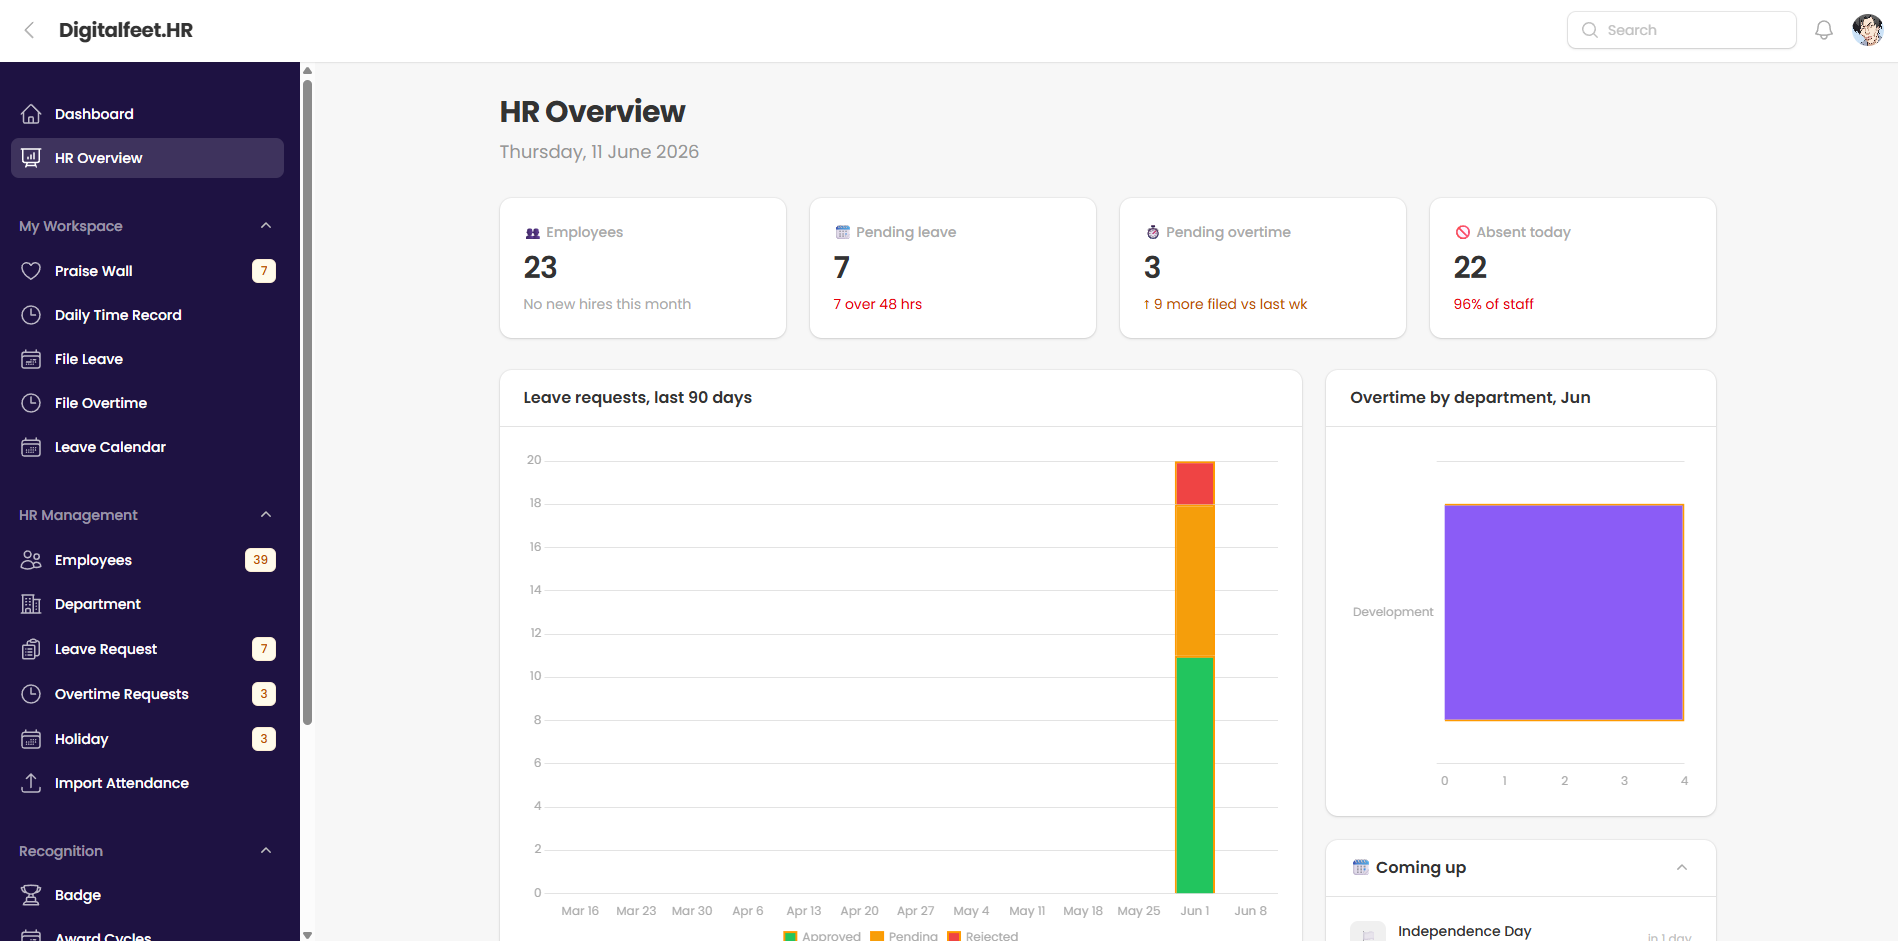
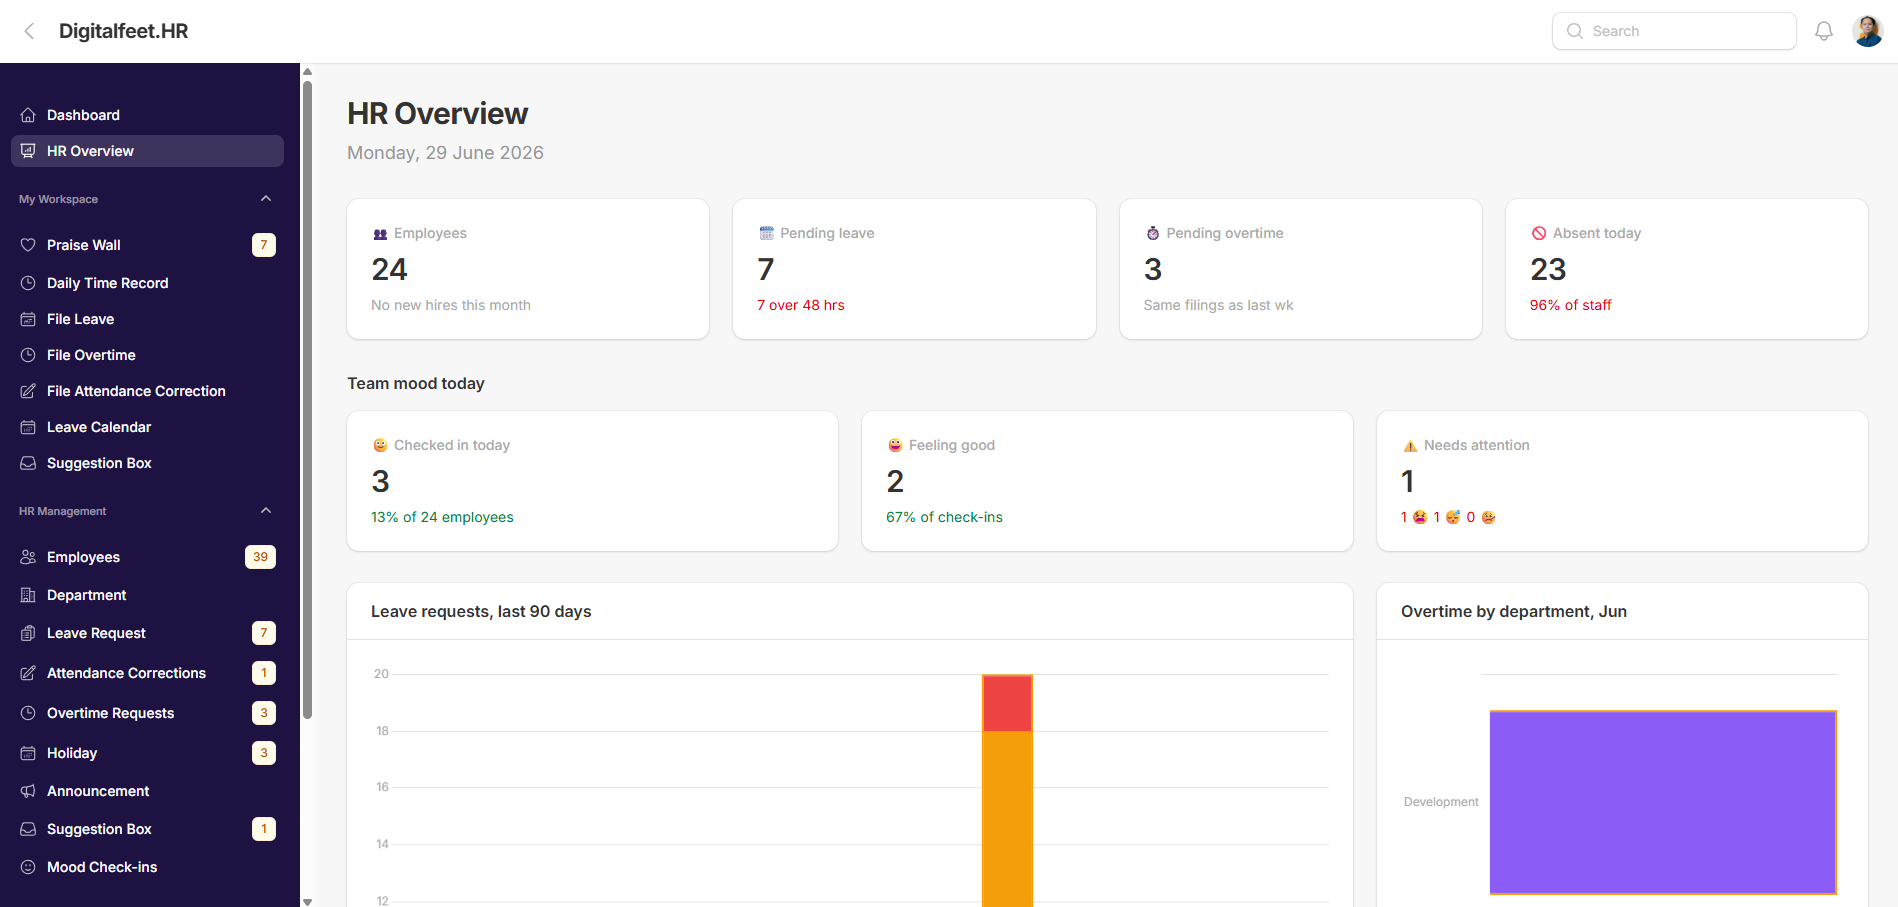
feat: update welcome page features and descriptions, add IT Asset Management and Wellbeing Check-ins

diff --git a/resources/js/pages/welcome.tsx b/resources/js/pages/welcome.tsx
@@ -17,7 +17,7 @@ const features: Feature[] = [
     {
         title: 'Attendance & DTR',
         description:
-            'Web clock in/out plus a clean daily time record with late, undertime, and overtime built in.',
+            'Web and biometric clock in/out, plus a clean daily time record with late, undertime, and overtime built in.',
         accent: 'bg-[#099FDD]/10 text-[#099FDD]',
         icon: (
             <path
@@ -30,7 +30,7 @@ const features: Feature[] = [
     {
         title: 'Leave & Overtime',
         description:
-            'File requests, track remaining credits, and route approvals to the right people.',
+            'File requests, track remaining credits, fix missed punches, and route approvals to the right people.',
         accent: 'bg-[#E94E1B]/10 text-[#E94E1B]',
         icon: (
             <path
@@ -41,9 +41,22 @@ const features: Feature[] = [
         ),
     },
     {
+        title: 'IT Asset Management',
+        description:
+            'Track every device, assign or lend units to staff, log returns — and each person sees the equipment that’s theirs.',
+        accent: 'bg-[#099FDD]/10 text-[#099FDD]',
+        icon: (
+            <path
+                strokeLinecap="round"
+                strokeLinejoin="round"
+                d="M9 17.25v1.007a3 3 0 0 1-.879 2.122L7.5 21h9l-.621-.621A3 3 0 0 1 15 18.257V17.25m6-12V15a2.25 2.25 0 0 1-2.25 2.25H5.25A2.25 2.25 0 0 1 3 15V5.25m18 0A2.25 2.25 0 0 0 18.75 3H5.25A2.25 2.25 0 0 0 3 5.25m18 0V12a2.25 2.25 0 0 1-2.25 2.25H5.25A2.25 2.25 0 0 1 3 12V5.25"
+            />
+        ),
+    },
+    {
         title: 'Team Calendar',
         description:
-            "See who's away across every department and keep holidays in view.",
+            "See who's away across every department, plus a live feed of today's team activity.",
         accent: 'bg-[#238B7F]/10 text-[#238B7F]',
         icon: (
             <path
@@ -54,7 +67,7 @@ const features: Feature[] = [
         ),
     },
     {
-        title: 'Praise Wall',
+        title: 'Praise & Recognition',
         description:
             'Recognize teammates with badges, react and comment, and crown winners every cycle.',
         accent: 'bg-[#D60B52]/10 text-[#D60B52]',
@@ -67,22 +80,48 @@ const features: Feature[] = [
         ),
     },
     {
-        title: 'Biometric Import',
+        title: 'Wellbeing Check-ins',
         description:
-            'Bring fingerprint punches in from your device, trim duplicates, and commit clean records.',
+            'A daily mood check-in that quietly flags who might need support — visible only to HR.',
+        accent: 'bg-[#238B7F]/10 text-[#238B7F]',
+        icon: (
+            <path
+                strokeLinecap="round"
+                strokeLinejoin="round"
+                d="M21 8.25c0-2.485-2.099-4.5-4.688-4.5-1.935 0-3.597 1.126-4.312 2.733-.715-1.607-2.377-2.733-4.313-2.733C5.1 3.75 3 5.765 3 8.25c0 7.22 9 12 9 12s9-4.78 9-12Z"
+            />
+        ),
+    },
+    {
+        title: 'Anonymous Suggestions',
+        description:
+            'A safe, fully anonymous box for ideas and concerns — read only by HR, with no author ever attached.',
         accent: 'bg-[#F99F29]/15 text-[#b46e0a]',
         icon: (
             <path
                 strokeLinecap="round"
                 strokeLinejoin="round"
-                d="M7.864 4.243A7.5 7.5 0 0 1 19.5 10.5c0 2.92-.556 5.709-1.568 8.268M5.742 6.364A7.465 7.465 0 0 0 4.5 10.5a7.464 7.464 0 0 1-1.15 3.993m1.989 3.559A11.209 11.209 0 0 0 8.25 10.5a3.75 3.75 0 1 1 7.5 0c0 .527-.021 1.049-.064 1.565M12 10.5a14.94 14.94 0 0 1-3.6 9.75"
+                d="M12 18v-5.25m0 0a6.01 6.01 0 0 0 1.5-.189m-1.5.189a6.01 6.01 0 0 1-1.5-.189m3.75 7.478a12.06 12.06 0 0 1-4.5 0m3.75 2.383a14.406 14.406 0 0 1-3 0M14.25 18v-.192c0-.983.658-1.823 1.508-2.316a7.5 7.5 0 1 0-7.517 0c.85.493 1.509 1.333 1.509 2.316V18"
+            />
+        ),
+    },
+    {
+        title: 'Announcements & Alerts',
+        description:
+            'Company-wide announcements and urgent typhoon-style alerts that reach everyone instantly.',
+        accent: 'bg-[#E94E1B]/10 text-[#E94E1B]',
+        icon: (
+            <path
+                strokeLinecap="round"
+                strokeLinejoin="round"
+                d="M10.34 15.84c-.688-.06-1.386-.09-2.09-.09H7.5a4.5 4.5 0 1 1 0-9h.75c.704 0 1.402-.03 2.09-.09m0 9.18c.253.962.584 1.892.985 2.783.247.55.06 1.21-.463 1.511l-.657.38c-.551.318-1.26.117-1.527-.461a20.845 20.845 0 0 1-1.44-4.282m3.102.069a18.03 18.03 0 0 1-.59-4.59c0-1.586.205-3.124.59-4.59m0 9.18a23.848 23.848 0 0 1 8.835 2.535M10.34 6.66a23.847 23.847 0 0 0 8.835-2.535m0 0A23.74 23.74 0 0 0 18.795 3m.38 1.125a23.91 23.91 0 0 1 1.014 5.395m-1.014 8.855c-.118.38-.245.754-.38 1.125m.38-1.125a23.91 23.91 0 0 0 1.014-5.395M21 12.75a2.25 2.25 0 0 0 0-4.5"
             />
         ),
     },
     {
         title: 'Roles & Settings',
         description:
-            'Company rules — lunch breaks, working days, windows — configurable by HR, not by code.',
+            'Company rules and access — lunch breaks, working days, who manages what — configurable by HR, not by code.',
         accent: 'bg-[#271A3D]/10 text-[#271A3D]',
         icon: (
             <path
@@ -98,10 +137,12 @@ const marqueeItems = [
     '⏱ One-click clock in',
     '🗓 Leave in seconds',
     '📊 Live HR insights',
+    '💻 Asset tracking',
     '✨ Built-in recognition',
-    '🖐 Biometric import',
+    '💚 Wellbeing check-ins',
+    '🖐 Biometric attendance',
     '🏖 Team calendar',
-    '🏅 Praise cycles',
+    '📣 Daily team activity',
     '⚙ HR-owned settings',
 ];
 
@@ -114,6 +155,7 @@ const insightBullets = [
 const everydayBullets = [
     'Clock in and out in one click, from anywhere',
     'Leave credits, requests, and overtime — always current',
+    'The equipment assigned to you and your team’s activity today',
     "Praise you've received and what's coming up next",
 ];
 
@@ -340,9 +382,9 @@ export default function Welcome() {
                                 data-hero-sub
                                 className="mt-5 max-w-xl text-base text-white/70 sm:text-lg"
                             >
-                                Attendance, leave, overtime, and recognition —
-                                everything your people do in a day, in one calm
-                                place. No spreadsheets, no chasing.
+                                Attendance, leave, equipment, recognition, and
+                                wellbeing — everything your people do in a day,
+                                in one calm place. No spreadsheets, no chasing.
                             </p>
 
                             <div
@@ -537,8 +579,8 @@ export default function Welcome() {
                                     Everything a workday needs
                                 </h2>
                                 <p className="mt-4 text-base text-[#271A3D]/70">
-                                    Six tools, one login — built around how your
-                                    team actually works.
+                                    One login for everything — built around how
+                                    your team actually works.
                                 </p>
                             </div>
 
